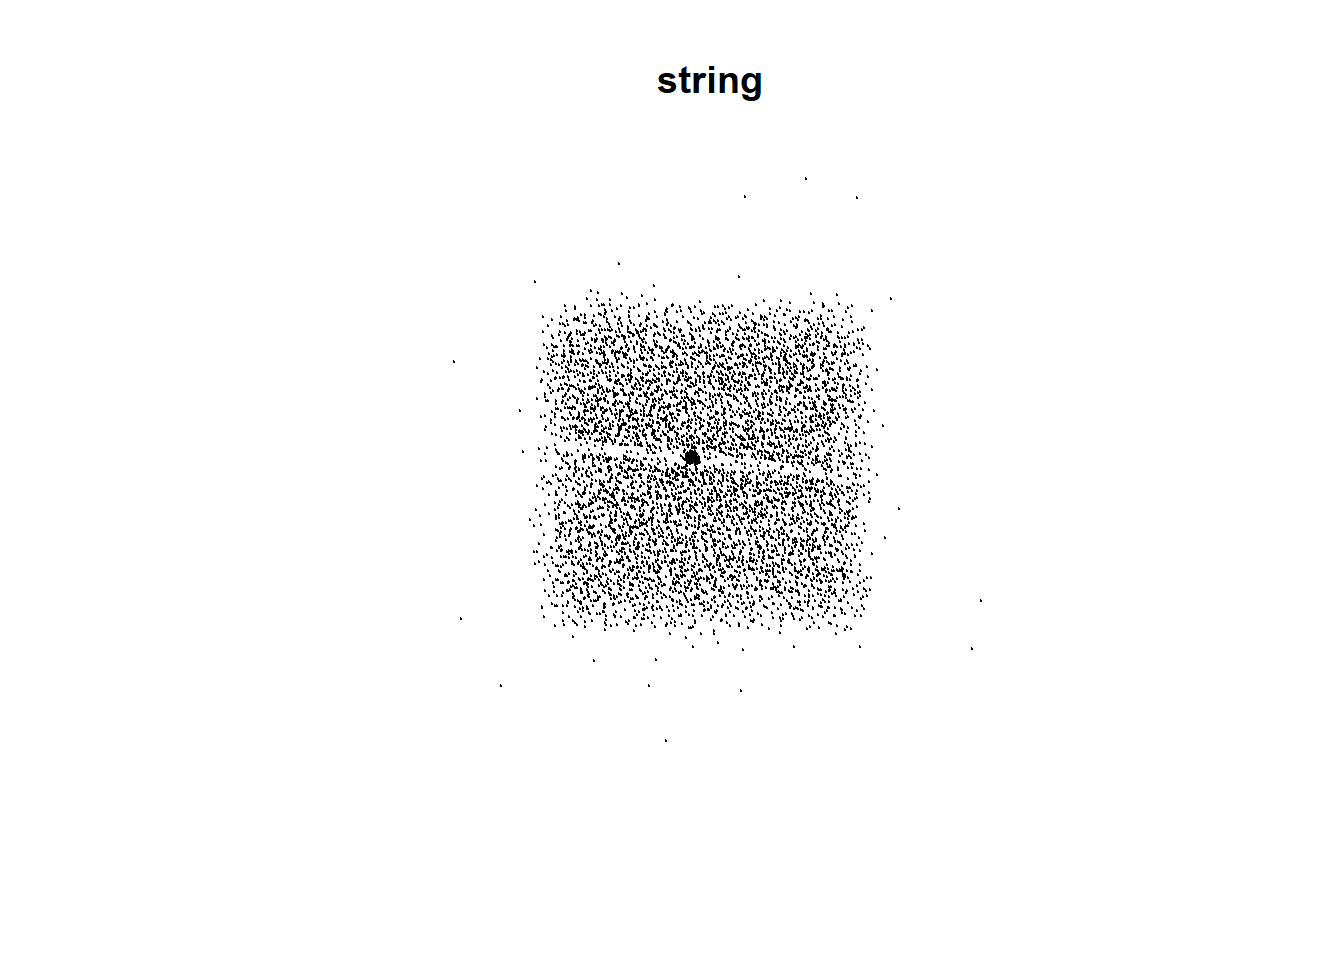
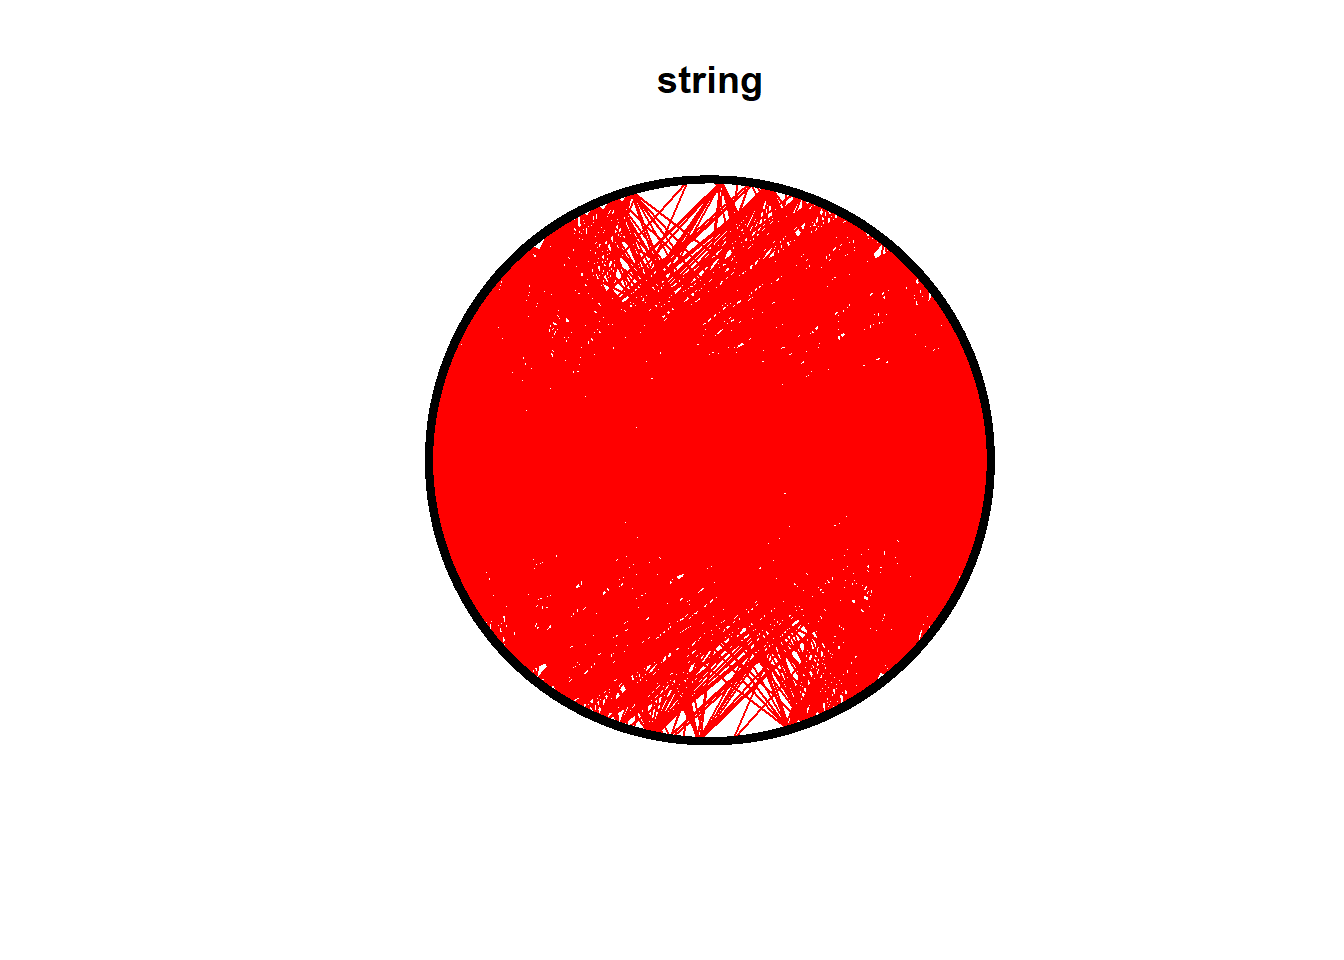
9/30/2024

Changed region(s): [[0.3125, 0.1562, 0.75, 0.7812]]

diff --git a/docs/dawn_algorithm.html b/docs/dawn_algorithm.html
@@ -400,7 +400,7 @@ aria-hidden="true"></span> </a>
 <div class="tab-content">
 <div id="summary" class="tab-pane fade in active">
 <p>
-<strong>Last updated:</strong> 2024-09-27
+<strong>Last updated:</strong> 2024-09-30
 </p>
 <p>
 <strong>Checks:</strong> <span
@@ -534,15 +534,15 @@ project makes it easier to run your code on other machines.</p>
 <div class="panel panel-default">
 <div class="panel-heading">
 <p class="panel-title">
-<a data-toggle="collapse" data-parent="#workflowr-checks" href="#strongRepositoryversionstrongahrefhttpsgithubcomhan16IntegratePPItreea55f668a8dc42c2312cc575ca89d956d6e003f7etargetblanka55f668a">
+<a data-toggle="collapse" data-parent="#workflowr-checks" href="#strongRepositoryversionstrongahrefhttpsgithubcomhan16IntegratePPItree58c6abd9f8fab70e659430bb3fa971e2c0bc859ctargetblank58c6abda">
 <span class="glyphicon glyphicon-ok text-success"
 aria-hidden="true"></span> <strong>Repository version:</strong>
-<a href="https://github.com/han16/IntegratePPI/tree/a55f668a8dc42c2312cc575ca89d956d6e003f7e" target="_blank">a55f668</a>
+<a href="https://github.com/han16/IntegratePPI/tree/58c6abd9f8fab70e659430bb3fa971e2c0bc859c" target="_blank">58c6abd</a>
 </a>
 </p>
 </div>
 <div
[2 lines of base64/hex data omitted]
 class="panel-collapse collapse">
 <div class="panel-body">
 <p>
@@ -552,7 +552,7 @@ reproducibility.
 </p>
 <p>
 The results in this page were generated with repository version
-<a href="https://github.com/han16/IntegratePPI/tree/a55f668a8dc42c2312cc575ca89d956d6e003f7e" target="_blank">a55f668</a>.
+<a href="https://github.com/han16/IntegratePPI/tree/58c6abd9f8fab70e659430bb3fa971e2c0bc859c" target="_blank">58c6abd</a>.
 See the <em>Past versions</em> tab to see a history of the changes made
 to the R Markdown and HTML files.
 </p>
@@ -617,6 +617,40 @@ Message
 </tr>
 </thead>
 <tbody>
+<tr>
+<td>
+Rmd
+</td>
+<td>
+<a href="https://github.com/han16/IntegratePPI/blob/58c6abd9f8fab70e659430bb3fa971e2c0bc859c/analysis/dawn_algorithm.Rmd" target="_blank">58c6abd</a>
+</td>
+<td>
+han
+</td>
+<td>
+2024-09-27
+</td>
+<td>
+9/27/2024
+</td>
+</tr>
+<tr>
+<td>
+html
+</td>
+<td>
+<a href="https://rawcdn.githack.com/han16/IntegratePPI/58c6abd9f8fab70e659430bb3fa971e2c0bc859c/docs/dawn_algorithm.html" target="_blank">58c6abd</a>
+</td>
+<td>
+han
+</td>
+<td>
+2024-09-27
+</td>
+<td>
+9/27/2024
+</td>
+</tr>
 <tr>
 <td>
 Rmd
@@ -1113,6 +1147,7 @@ adj_pfc35 &lt;- Matrix::Matrix(adj_pfc35, sparse = T)
 <pre class="r"><code># plot two networks with same coordinates
 library(igraph)
 library(dplyr)
+set.seed(123)
 string_incidence_igraph=graph_from_incidence_matrix(string_incidence)  # convert to igraph https://igraph.org/r/doc/graph_from_incidence_matrix.html
 V(string_incidence_igraph)$name &lt;- paste0(&quot;Node&quot;, 1:7000)
 Coords &lt;- layout_with_fr(string_incidence_igraph) %&gt;% 
@@ -1133,8 +1168,11 @@ max_value=max(Coords[,1:2], new_Coords[,2:3])
 
 
 
-g3=string_incidence_igraph%&gt;% 
-  plot(.,vertex.size=.8, edge.arrow.size=.4, vertex.label = NA, layout = as.matrix(Coords[,1:2]), rescale=F, xlim=c(min_value,max_value),ylim=c(min_value,max_value), main=&quot;string&quot;)  </code></pre>
+#g3=string_incidence_igraph%&gt;% 
+#  plot(.,vertex.size=2, edge.arrow.size=.4, vertex.label = NA, layout = as.matrix(Coords[,1:2]), #rescale=F, main=&quot;string&quot;, vertex.color=&quot;black&quot;, edge.color=&quot;red&quot;, xlim=c(min_value, max_value), #ylim=c(min_value, max_value))  
+
+g1=string_incidence_igraph%&gt;% 
+  plot(.,vertex.size=3, edge.arrow.size=.1, vertex.label = NA, layout = layout.circle, rescale=F, main=&quot;string&quot;, vertex.color=&quot;black&quot;, edge.color=&quot;red&quot;)</code></pre>
 <p><img src="figure/dawn_algorithm.Rmd/unnamed-chunk-7-1.png" width="672" style="display: block; margin: auto;" /></p>
 <p>
 <button type="button" class="btn btn-default btn-xs btn-workflowr btn-workflowr-fig" data-toggle="collapse" data-target="#fig-unnamed-chunk-7-1">
@@ -1173,8 +1211,11 @@ han
 </table>
 </div>
 </div>
-<pre class="r"><code>g1=string_incidence_igraph%&gt;% 
-  plot(.,vertex.size=.8, edge.arrow.size=.4, vertex.label = NA, layout = layout.circle, rescale=F, main=&quot;string&quot;)</code></pre>
+<pre class="r"><code>#g4=adj_pfc35_igraph%&gt;% 
+#  plot(.,vertex.size=2, edge.arrow.size=.4, vertex.label = NA, layout = #as.matrix(new_Coords[,2:3]),rescale=F, main=&quot;adj_pfc35&quot;, vertex.color=&quot;black&quot;, edge.color=&quot;red&quot;, #xlim=c(min_value, max_value), ylim=c(min_value, max_value))
+
+g2=adj_pfc35_igraph%&gt;% 
+  plot(.,vertex.size=3, edge.arrow.size=.1, vertex.label = NA, layout = layout.circle, rescale=F,  main=&quot;adj_pfc35&quot;, vertex.color=&quot;black&quot;, edge.color=&quot;red&quot;)</code></pre>
 <p><img src="figure/dawn_algorithm.Rmd/unnamed-chunk-7-2.png" width="672" style="display: block; margin: auto;" /></p>
 <p>
 <button type="button" class="btn btn-default btn-xs btn-workflowr btn-workflowr-fig" data-toggle="collapse" data-target="#fig-unnamed-chunk-7-2">
@@ -1200,6 +1241,17 @@ Date
 <tbody>
 <tr>
 <td>
+<a href="https://github.com/han16/IntegratePPI/blob/58c6abd9f8fab70e659430bb3fa971e2c0bc859c/docs/figure/dawn_algorithm.Rmd/unnamed-chunk-7-2.png" target="_blank">58c6abd</a>
+</td>
+<td>
+han
+</td>
+<td>
+2024-09-27
+</td>
+</tr>
+<tr>
+<td>
 <a href="https://github.com/han16/IntegratePPI/blob/a55f668a8dc42c2312cc575ca89d956d6e003f7e/docs/figure/dawn_algorithm.Rmd/unnamed-chunk-7-2.png" target="_blank">a55f668</a>
 </td>
 <td>
@@ -1213,13 +1265,7 @@ han
 </table>
 </div>
 </div>
-<pre class="r"><code>g4=adj_pfc35_igraph%&gt;% 
-  plot(.,vertex.size=.8, edge.arrow.size=.4, vertex.label = NA, layout = as.matrix(new_Coords[,2:3]),rescale=F, xlim=c(min_value-10,max_value+10),ylim=c(min_value,max_value), main=&quot;adj_pfc35&quot;)</code></pre>
-<p><img src="figure/dawn_algorithm.Rmd/unnamed-chunk-7-3.png" width="672" style="display: block; margin: auto;" /></p>
-<pre class="r"><code>g2=adj_pfc35_igraph%&gt;% 
-  plot(.,vertex.size=.8, edge.arrow.size=.4, vertex.label = NA, layout = layout.circle, rescale=F,  main=&quot;adj_pfc35&quot;)</code></pre>
-<p><img src="figure/dawn_algorithm.Rmd/unnamed-chunk-7-4.png" width="672" style="display: block; margin: auto;" /></p>
-<pre class="r"><code>combine_plot1=ggarrange(g1, g2,nrow=1)</code></pre>
+<pre class="r"><code>#combine_plot1=ggarrange(g1, g2,nrow=1)</code></pre>
 <br>
 <p>
 <button type="button" class="btn btn-default btn-workflowr btn-workflowr-sessioninfo" data-toggle="collapse" data-target="#workflowr-sessioninfo" style="display: block;">
@@ -1272,16 +1318,16 @@ loaded via a namespace (and not attached):
 [37] cachem_1.0.8             abind_1.4-5              trust_0.1-8             
 [40] nlme_3.1-164             robustbase_0.99-2        tidyselect_1.2.1        
 [43] digest_0.6.35            stringi_1.8.4            purrr_1.0.2             
-[46] cowplot_1.1.3            rprojroot_2.0.4          fastmap_1.1.1           
-[49] grid_4.4.0               colorspace_2.1-0         cli_3.6.2               
-[52] magrittr_2.0.3           utf8_1.2.4               broom_1.0.5             
-[55] withr_3.0.0              backports_1.4.1          scales_1.3.0            
-[58] promises_1.3.0           rmarkdown_2.26           ggsignif_0.6.4          
-[61] workflowr_1.7.1          coda_0.19-4.1            memoise_2.0.1           
-[64] lpSolveAPI_5.5.2.0-17.11 evaluate_0.23            knitr_1.46              
-[67] rbibutils_2.2.16         rlang_1.1.3              Rcpp_1.0.12             
-[70] glue_1.7.0               rstudioapi_0.16.0        jsonlite_1.8.8          
-[73] R6_2.5.1                 fs_1.6.4                </code></pre>
+[46] rprojroot_2.0.4          fastmap_1.1.1            grid_4.4.0              
+[49] colorspace_2.1-0         cli_3.6.2                magrittr_2.0.3          
+[52] utf8_1.2.4               broom_1.0.5              withr_3.0.0             
+[55] backports_1.4.1          scales_1.3.0             promises_1.3.0          
+[58] rmarkdown_2.26           ggsignif_0.6.4           workflowr_1.7.1         
+[61] coda_0.19-4.1            memoise_2.0.1            lpSolveAPI_5.5.2.0-17.11
+[64] evaluate_0.23            knitr_1.46               rbibutils_2.2.16        
+[67] rlang_1.1.3              Rcpp_1.0.12              glue_1.7.0              
+[70] rstudioapi_0.16.0        jsonlite_1.8.8           R6_2.5.1                
+[73] fs_1.6.4                </code></pre>
 </div>
 
 
